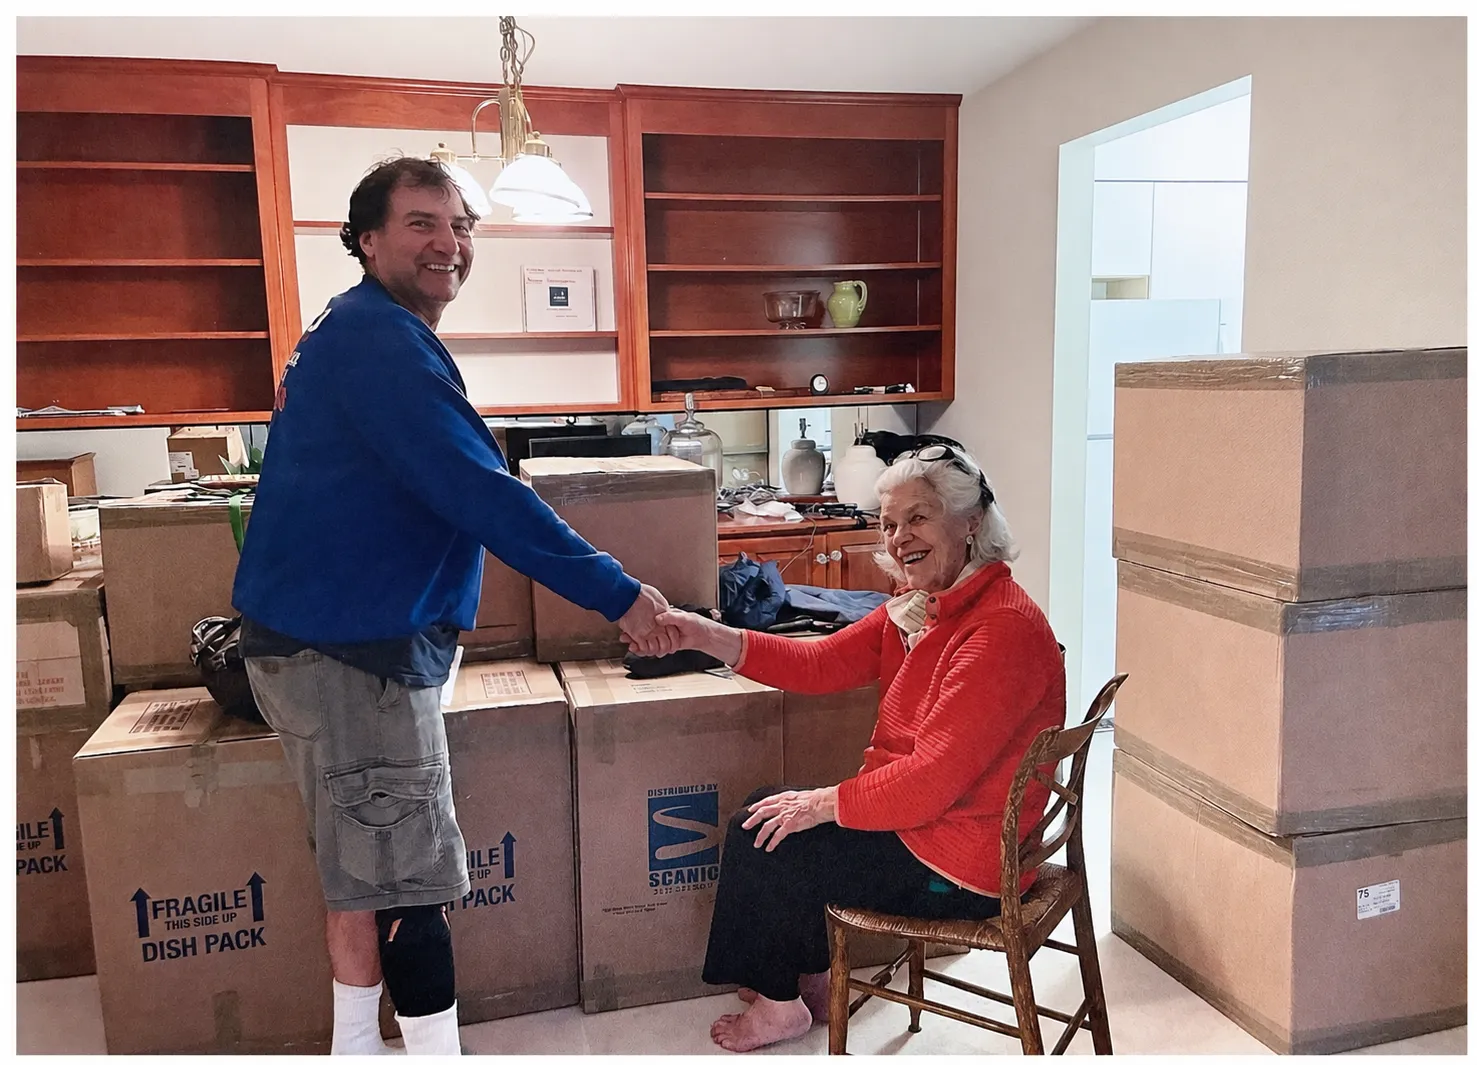
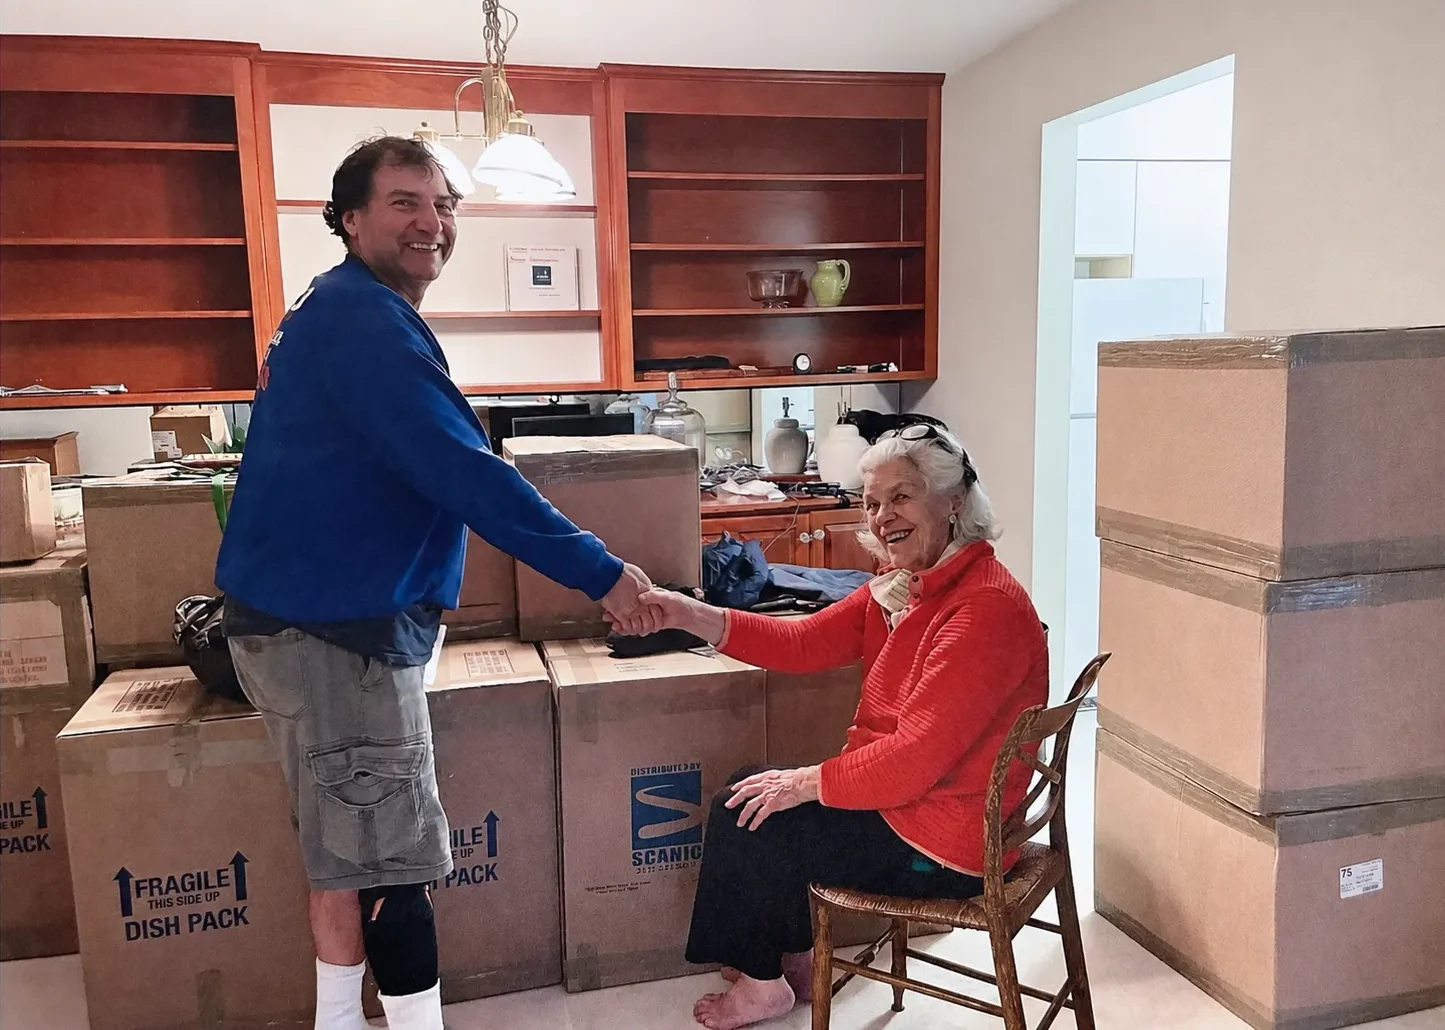
Fix About hero: crop white border from handshake photo
The first About photo had a white frame baked into the source; with the
tall container + object-cover the top/bottom edges showed as white bands,
and the scale(1.05) workaround only partly hid them. Crop the border out
of the source (1477x1065 -> 1445x1030) and remove the scale hack so it
displays normally edge-to-edge.

Changed region(s): [[0.0, 0.0, 1.0, 1.0]]

diff --git a/src/app/(main)/about/page.tsx b/src/app/(main)/about/page.tsx
@@ -63,10 +63,6 @@ export default function AboutPage() {
                   fill
                   quality={95}
                   className="object-cover"
-                  // The first photo (handshake-client.png) has a thin white
-                  // border baked into the source — zoom slightly so it
-                  // crops out beyond the visible area.
-                  style={i === 0 ? { transform: "scale(1.05)" } : undefined}
                   sizes="(max-width: 1024px) 100vw, 50vw"
                   priority
                 />
